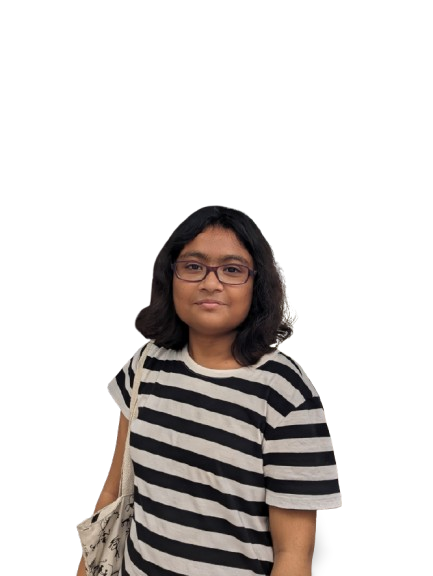
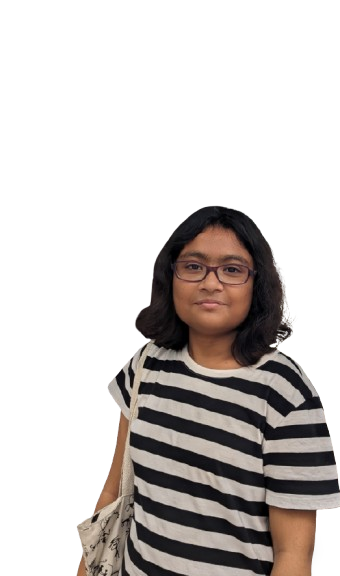
image align

diff --git a/src/index.html b/src/index.html
@@ -90,7 +90,7 @@
                 </p>
             </div>
             <!-- Placeholder for Illustration -->
-            <div class="hidden md:block w-1/2 h-64 rounded-lg ml-10 ">
+            <div class="hidden md:flex justify-end w-1/2 h-64 rounded-lg ml-10 ">
                 <img src="images/me-2.png" alt="my photo" class="src"/>
             </div>
         </div>

diff --git a/src/index.css b/src/index.css
@@ -144,9 +144,9 @@ footer h2{
 .about img{
     position: absolute;
     bottom: 0px!important;
-    right:0px !important;
-    width: 55%;
-
+    right: 0px !important;
+    width: 40%;
+    float:right;
 
 }
 .contact form input{
